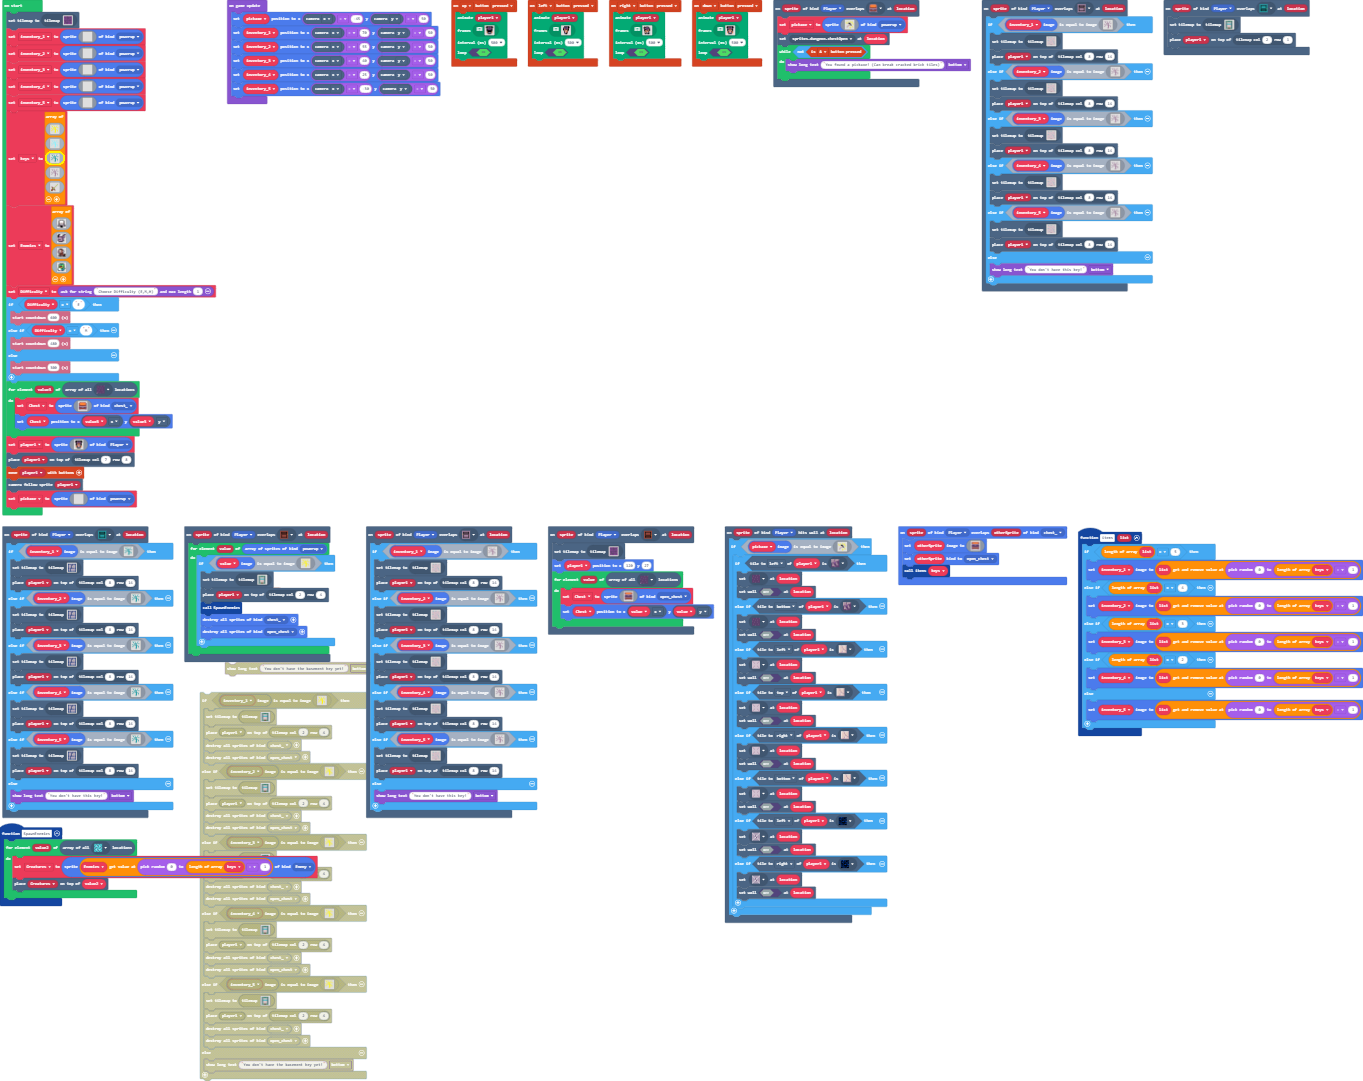
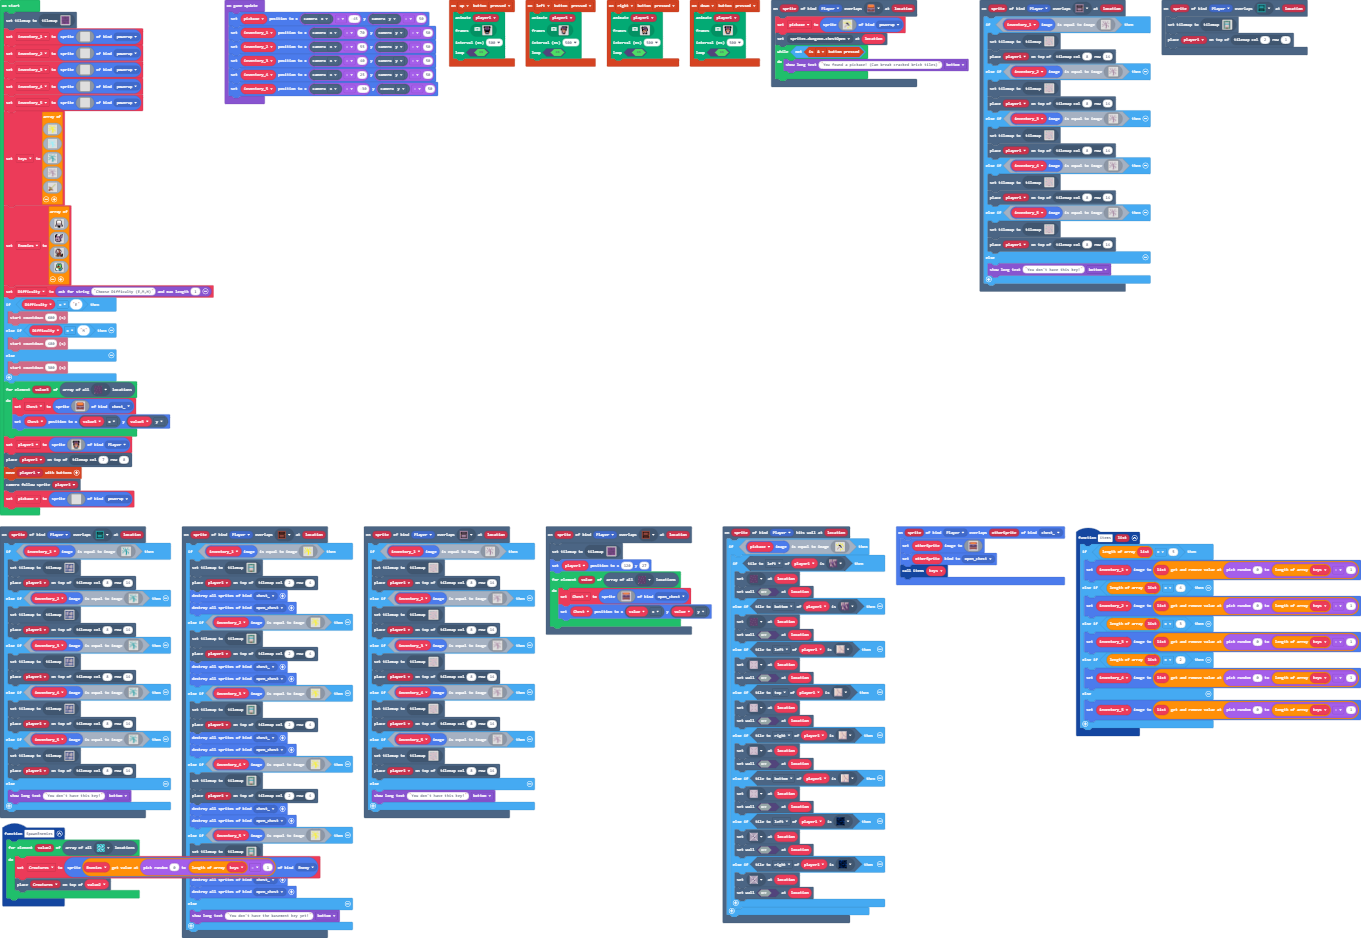
Update main.blocks, main.ts, tilemap.g.jres, tilemap.g.ts

diff --git a/main.ts b/main.ts
@@ -134,31 +134,118 @@ scene.onHitWall(SpriteKind.Player, function (sprite, location) {
     }
 })
 scene.onOverlapTile(SpriteKind.Player, assets.tile`myTile`, function (sprite, location) {
-    for (let value of sprites.allOfKind(SpriteKind.powerup)) {
-        if (value.image.equals(img`
-            . . . . . 5 . . . . . . . . . . 
-            . 5 5 . . . 5 . . . . 5 5 . . . 
-            . . 5 5 . . 5 5 . . 5 5 . . . . 
-            . . . 5 . . . . . . . . . . . . 
-            . . . . . 5 5 5 5 5 . . . . . . 
-            . . . . . 5 . 5 . 5 . 5 5 5 5 . 
-            5 5 5 . . 5 5 . 5 5 . . . . . . 
-            . . . . . 5 . 5 . 5 . . . . . . 
-            . . . . . 5 5 5 5 5 . 5 . . . . 
-            . . 5 5 . . . . 5 5 . 5 5 . . . 
-            . 5 5 . . . . . 5 5 . . 5 5 . . 
-            . 5 . . . . . . 5 5 . . . 5 . . 
-            . . . . . . . 5 5 5 . . . 5 . . 
-            . . . . . . . . 5 5 . . . . . . 
-            . . . . . . . 5 5 5 . . . . . . 
-            . . . . . . . . . . . . . . . . 
-            `)) {
-            tiles.setCurrentTilemap(tilemap`level5`)
-            tiles.placeOnTile(player1, tiles.getTileLocation(2, 4))
-            SpawnEnemies()
-            sprites.destroyAllSpritesOfKind(SpriteKind.chest_)
-            sprites.destroyAllSpritesOfKind(SpriteKind.open_chest)
-        }
+    if (inventory_1.image.equals(img`
+        . . . . . 5 . . . . . . . . . . 
+        . 5 5 . . . 5 . . . . 5 5 . . . 
+        . . 5 5 . . 5 5 . . 5 5 . . . . 
+        . . . 5 . . . . . . . . . . . . 
+        . . . . . 5 5 5 5 5 . . . . . . 
+        . . . . . 5 . 5 . 5 . 5 5 5 5 . 
+        5 5 5 . . 5 5 . 5 5 . . . . . . 
+        . . . . . 5 . 5 . 5 . . . . . . 
+        . . . . . 5 5 5 5 5 . 5 . . . . 
+        . . 5 5 . . . . 5 5 . 5 5 . . . 
+        . 5 5 . . . . . 5 5 . . 5 5 . . 
+        . 5 . . . . . . 5 5 . . . 5 . . 
+        . . . . . . . 5 5 5 . . . 5 . . 
+        . . . . . . . . 5 5 . . . . . . 
+        . . . . . . . 5 5 5 . . . . . . 
+        . . . . . . . . . . . . . . . . 
+        `)) {
+        tiles.setCurrentTilemap(tilemap`level5`)
+        tiles.placeOnTile(player1, tiles.getTileLocation(2, 4))
+        sprites.destroyAllSpritesOfKind(SpriteKind.chest_)
+        sprites.destroyAllSpritesOfKind(SpriteKind.open_chest)
+    } else if (inventory_2.image.equals(img`
+        . . . . . 5 . . . . . . . . . . 
+        . 5 5 . . . 5 . . . . 5 5 . . . 
+        . . 5 5 . . 5 5 . . 5 5 . . . . 
+        . . . 5 . . . . . . . . . . . . 
+        . . . . . 5 5 5 5 5 . . . . . . 
+        . . . . . 5 . 5 . 5 . 5 5 5 5 . 
+        5 5 5 . . 5 5 . 5 5 . . . . . . 
+        . . . . . 5 . 5 . 5 . . . . . . 
+        . . . . . 5 5 5 5 5 . 5 . . . . 
+        . . 5 5 . . . . 5 5 . 5 5 . . . 
+        . 5 5 . . . . . 5 5 . . 5 5 . . 
+        . 5 . . . . . . 5 5 . . . 5 . . 
+        . . . . . . . 5 5 5 . . . 5 . . 
+        . . . . . . . . 5 5 . . . . . . 
+        . . . . . . . 5 5 5 . . . . . . 
+        . . . . . . . . . . . . . . . . 
+        `)) {
+        tiles.setCurrentTilemap(tilemap`level5`)
+        tiles.placeOnTile(player1, tiles.getTileLocation(2, 4))
+        sprites.destroyAllSpritesOfKind(SpriteKind.chest_)
+        sprites.destroyAllSpritesOfKind(SpriteKind.open_chest)
+    } else if (inventory_3.image.equals(img`
+        . . . . . 5 . . . . . . . . . . 
+        . 5 5 . . . 5 . . . . 5 5 . . . 
+        . . 5 5 . . 5 5 . . 5 5 . . . . 
+        . . . 5 . . . . . . . . . . . . 
+        . . . . . 5 5 5 5 5 . . . . . . 
+        . . . . . 5 . 5 . 5 . 5 5 5 5 . 
+        5 5 5 . . 5 5 . 5 5 . . . . . . 
+        . . . . . 5 . 5 . 5 . . . . . . 
+        . . . . . 5 5 5 5 5 . 5 . . . . 
+        . . 5 5 . . . . 5 5 . 5 5 . . . 
+        . 5 5 . . . . . 5 5 . . 5 5 . . 
+        . 5 . . . . . . 5 5 . . . 5 . . 
+        . . . . . . . 5 5 5 . . . 5 . . 
+        . . . . . . . . 5 5 . . . . . . 
+        . . . . . . . 5 5 5 . . . . . . 
+        . . . . . . . . . . . . . . . . 
+        `)) {
+        tiles.setCurrentTilemap(tilemap`level5`)
+        tiles.placeOnTile(player1, tiles.getTileLocation(2, 4))
+        sprites.destroyAllSpritesOfKind(SpriteKind.chest_)
+        sprites.destroyAllSpritesOfKind(SpriteKind.open_chest)
+    } else if (inventory_4.image.equals(img`
+        . . . . . 5 . . . . . . . . . . 
+        . 5 5 . . . 5 . . . . 5 5 . . . 
+        . . 5 5 . . 5 5 . . 5 5 . . . . 
+        . . . 5 . . . . . . . . . . . . 
+        . . . . . 5 5 5 5 5 . . . . . . 
+        . . . . . 5 . 5 . 5 . 5 5 5 5 . 
+        5 5 5 . . 5 5 . 5 5 . . . . . . 
+        . . . . . 5 . 5 . 5 . . . . . . 
+        . . . . . 5 5 5 5 5 . 5 . . . . 
+        . . 5 5 . . . . 5 5 . 5 5 . . . 
+        . 5 5 . . . . . 5 5 . . 5 5 . . 
+        . 5 . . . . . . 5 5 . . . 5 . . 
+        . . . . . . . 5 5 5 . . . 5 . . 
+        . . . . . . . . 5 5 . . . . . . 
+        . . . . . . . 5 5 5 . . . . . . 
+        . . . . . . . . . . . . . . . . 
+        `)) {
+        tiles.setCurrentTilemap(tilemap`level5`)
+        tiles.placeOnTile(player1, tiles.getTileLocation(2, 4))
+        sprites.destroyAllSpritesOfKind(SpriteKind.chest_)
+        sprites.destroyAllSpritesOfKind(SpriteKind.open_chest)
+    } else if (inventory_5.image.equals(img`
+        . . . . . 5 . . . . . . . . . . 
+        . 5 5 . . . 5 . . . . 5 5 . . . 
+        . . 5 5 . . 5 5 . . 5 5 . . . . 
+        . . . 5 . . . . . . . . . . . . 
+        . . . . . 5 5 5 5 5 . . . . . . 
+        . . . . . 5 . 5 . 5 . 5 5 5 5 . 
+        5 5 5 . . 5 5 . 5 5 . . . . . . 
+        . . . . . 5 . 5 . 5 . . . . . . 
+        . . . . . 5 5 5 5 5 . 5 . . . . 
+        . . 5 5 . . . . 5 5 . 5 5 . . . 
+        . 5 5 . . . . . 5 5 . . 5 5 . . 
+        . 5 . . . . . . 5 5 . . . 5 . . 
+        . . . . . . . 5 5 5 . . . 5 . . 
+        . . . . . . . . 5 5 . . . . . . 
+        . . . . . . . 5 5 5 . . . . . . 
+        . . . . . . . . . . . . . . . . 
+        `)) {
+        tiles.setCurrentTilemap(tilemap`level5`)
+        tiles.placeOnTile(player1, tiles.getTileLocation(2, 4))
+        sprites.destroyAllSpritesOfKind(SpriteKind.chest_)
+        sprites.destroyAllSpritesOfKind(SpriteKind.open_chest)
+    } else {
+        game.showLongText("You don't have the basement key yet!", DialogLayout.Bottom)
     }
 })
 function SpawnEnemies () {

diff --git a/tilemap.g.ts b/tilemap.g.ts
@@ -1460,6 +1460,63 @@ namespace myTiles {
 2 . . . . 2 . . . . 2 . . . . 2 
 2 2 2 2 2 2 2 . . 2 2 2 2 2 2 2 
 `, [myTiles.transparency16,myTiles.tile3,myTiles.tile16,myTiles.tile17,sprites.dungeon.floorLight2,sprites.dungeon.floorLight5,myTiles.tile19,myTiles.tile20,sprites.dungeon.collectibleInsignia], TileScale.Sixteen);
+            case "level76":
+            case "level76":return tiles.createTilemap(hex`1000100000000000000000000000000000000000000000000000000000000000000000000000000000000000000000000000000000000000000000000000000000000000000000000000000000000000000000000000000000000000000000000000000000000000000000000000000000000000000000000000000000000000000000000000000000000000000000000000000000000000000000000000000000000000000000000000000000000000000000000000000000000000000000000000000000000000000000000000000000000000000000000000000000000000000000000000000000000000000000000000000000000000000000000000000000000000`, img`
+. . . . . . . . . . . . . . . . 
+. . . . . . . . . . . . . . . . 
+. . . . . . . . . . . . . . . . 
+. . . . . . . . . . . . . . . . 
+. . . . . . . . . . . . . . . . 
+. . . . . . . . . . . . . . . . 
+. . . . . . . . . . . . . . . . 
+. . . . . . . . . . . . . . . . 
+. . . . . . . . . . . . . . . . 
+. . . . . . . . . . . . . . . . 
+. . . . . . . . . . . . . . . . 
+. . . . . . . . . . . . . . . . 
+. . . . . . . . . . . . . . . . 
+. . . . . . . . . . . . . . . . 
+. . . . . . . . . . . . . . . . 
+. . . . . . . . . . . . . . . . 
+`, [myTiles.transparency16], TileScale.Sixteen);
+            case "level77":
+            case "level77":return tiles.createTilemap(hex`1000100000000000000000000000000000000000000000000000000000000000000000000000000000000000000000000000000000000000000000000000000000000000000000000000000000000000000000000000000000000000000000000000000000000000000000000000000000000000000000000000000000000000000000000000000000000000000000000000000000000000000000000000000000000000000000000000000000000000000000000000000000000000000000000000000000000000000000000000000000000000000000000000000000000000000000000000000000000000000000000000000000000000000000000000000000000000`, img`
+. . . . . . . . . . . . . . . . 
+. . . . . . . . . . . . . . . . 
+. . . . . . . . . . . . . . . . 
+. . . . . . . . . . . . . . . . 
+. . . . . . . . . . . . . . . . 
+. . . . . . . . . . . . . . . . 
+. . . . . . . . . . . . . . . . 
+. . . . . . . . . . . . . . . . 
+. . . . . . . . . . . . . . . . 
+. . . . . . . . . . . . . . . . 
+. . . . . . . . . . . . . . . . 
+. . . . . . . . . . . . . . . . 
+. . . . . . . . . . . . . . . . 
+. . . . . . . . . . . . . . . . 
+. . . . . . . . . . . . . . . . 
+. . . . . . . . . . . . . . . . 
+`, [myTiles.transparency16], TileScale.Sixteen);
+            case "level78":
+            case "level78":return tiles.createTilemap(hex`1000100000000000000000000000000000000000000000000000000000000000000000000000000000000000000000000000000000000000000000000000000000000000000000000000000000000000000000000000000000000000000000000000000000000000000000000000000000000000000000000000000000000000000000000000000000000000000000000000000000000000000000000000000000000000000000000000000000000000000000000000000000000000000000000000000000000000000000000000000000000000000000000000000000000000000000000000000000000000000000000000000000000000000000000000000000000000`, img`
+. . . . . . . . . . . . . . . . 
+. . . . . . . . . . . . . . . . 
+. . . . . . . . . . . . . . . . 
+. . . . . . . . . . . . . . . . 
+. . . . . . . . . . . . . . . . 
+. . . . . . . . . . . . . . . . 
+. . . . . . . . . . . . . . . . 
+. . . . . . . . . . . . . . . . 
+. . . . . . . . . . . . . . . . 
+. . . . . . . . . . . . . . . . 
+. . . . . . . . . . . . . . . . 
+. . . . . . . . . . . . . . . . 
+. . . . . . . . . . . . . . . . 
+. . . . . . . . . . . . . . . . 
+. . . . . . . . . . . . . . . . 
+. . . . . . . . . . . . . . . . 
+`, [myTiles.transparency16], TileScale.Sixteen);
         }
         return null;
     })
